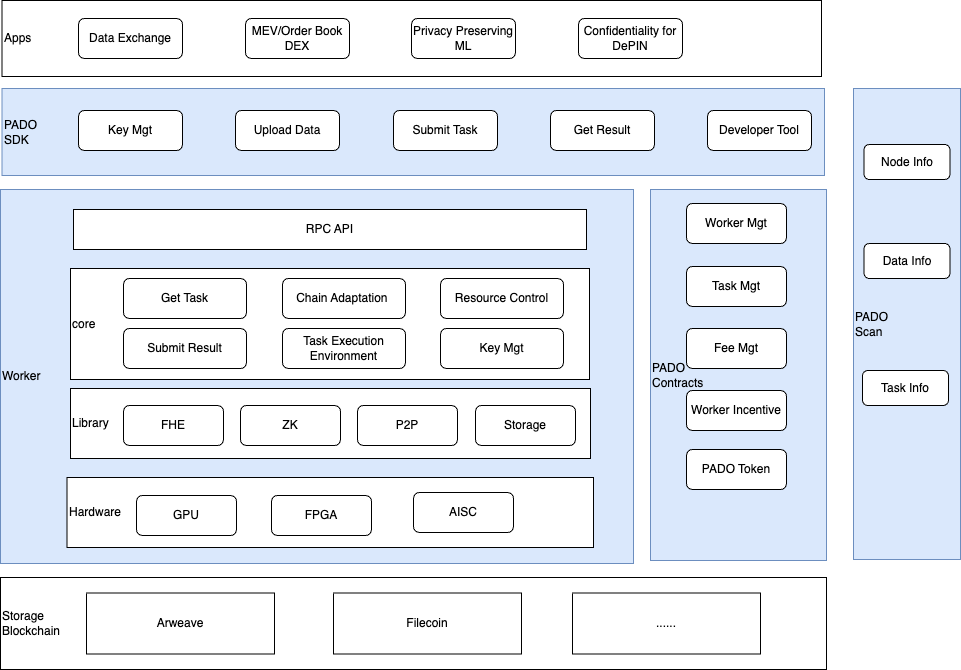
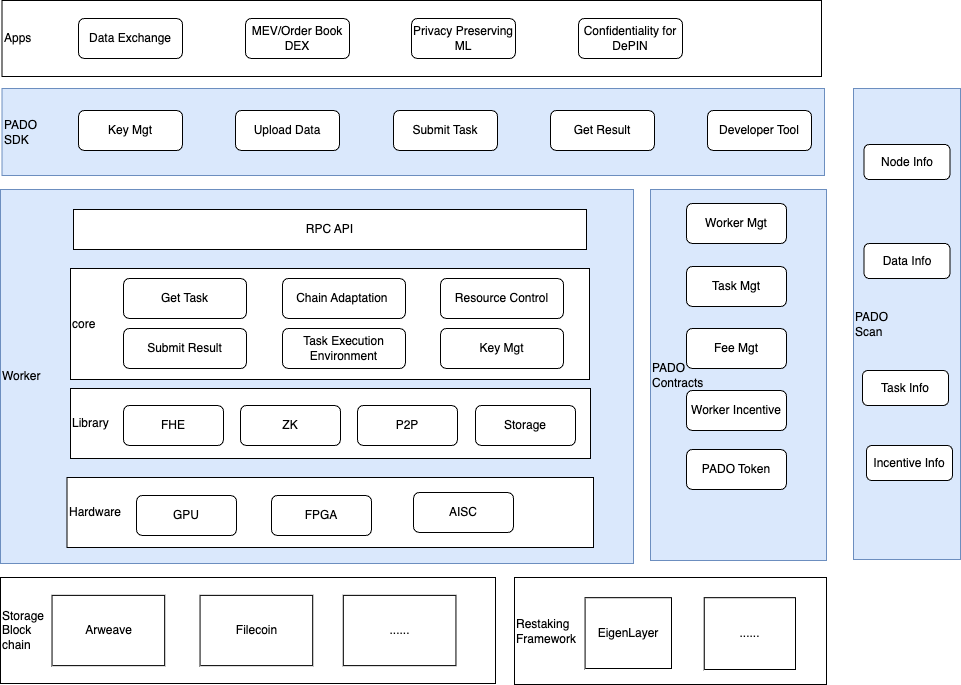
update restaking

diff --git a/zkFHE-Network.md b/zkFHE-Network.md
@@ -25,6 +25,8 @@ The core advantages of zkFHE lie in its natural abilities from both zero-knowled
 
   zkFHE confidential computing can guarantee the confidentiality and integrity of computing. Workers can earn computing fees.
 
+  There are two types of workers: one is registered directly through PADO Network, and the other is registered to AVS of PADO Network through the restaking framework (such as Eigen Layer).
+
 * **Network Consumer**
 
   Network Consumer is an individual or organization that uses PADO Network computing and data resources. Network Consumer can specify the encrypted data uploaded by the Data Provider to initiate a confidential computing task and obtain the results of the confidential computing task. Network Consumers are required to pay computing and data fees.
@@ -43,6 +45,8 @@ Comprehensive consideration of multiple perspectives of decentralization, securi
 
   zkFHE confidential computing can guarantee the confidentiality and integrity of computing. Workers can earn computing fees.
 
+  There are two types of workers: one is registered directly through PADO Network, and the other is registered to AVS of PADO Network through the restaking framework (such as Eigen Layer).
+
 * **PADO Contracts**
 
   PADO Contracts is a collection of blockchain contracts that can be deployed on multiple blockchains, including Ethereum, L2, AO, etc. PADO Contracts mainly include Worker management, data management, task management, fee management, Worker incentives, etc.
@@ -59,7 +63,7 @@ Comprehensive consideration of multiple perspectives of decentralization, securi
 
 The logical architecture is shown in the figure below:
 
-![zkFHE-architecture](./images/zkFHE-architecture2.png)
+![zkFHE-architecture](./images/zkFHE-architecture.png)
 
 #### Worker
 
@@ -102,6 +106,10 @@ PADO Scan is a user interface for viewing PADO Network information. PADO Scan ca
 #### Storage Blockchain
 
 Storage Blockchain is used to store encrypted data of Data Provider, including Arweave, Filecoin, Ceramic and Greenfield, etc.
+
+#### Restaking Framework
+
+PADO Network supports Workers registered directly through PADO Network and also supports operators of the Restaking Framework to register to PADO Network AVS. The Restaking Framework includes EigenLayer, etc.
 
 #### Dapps
 
